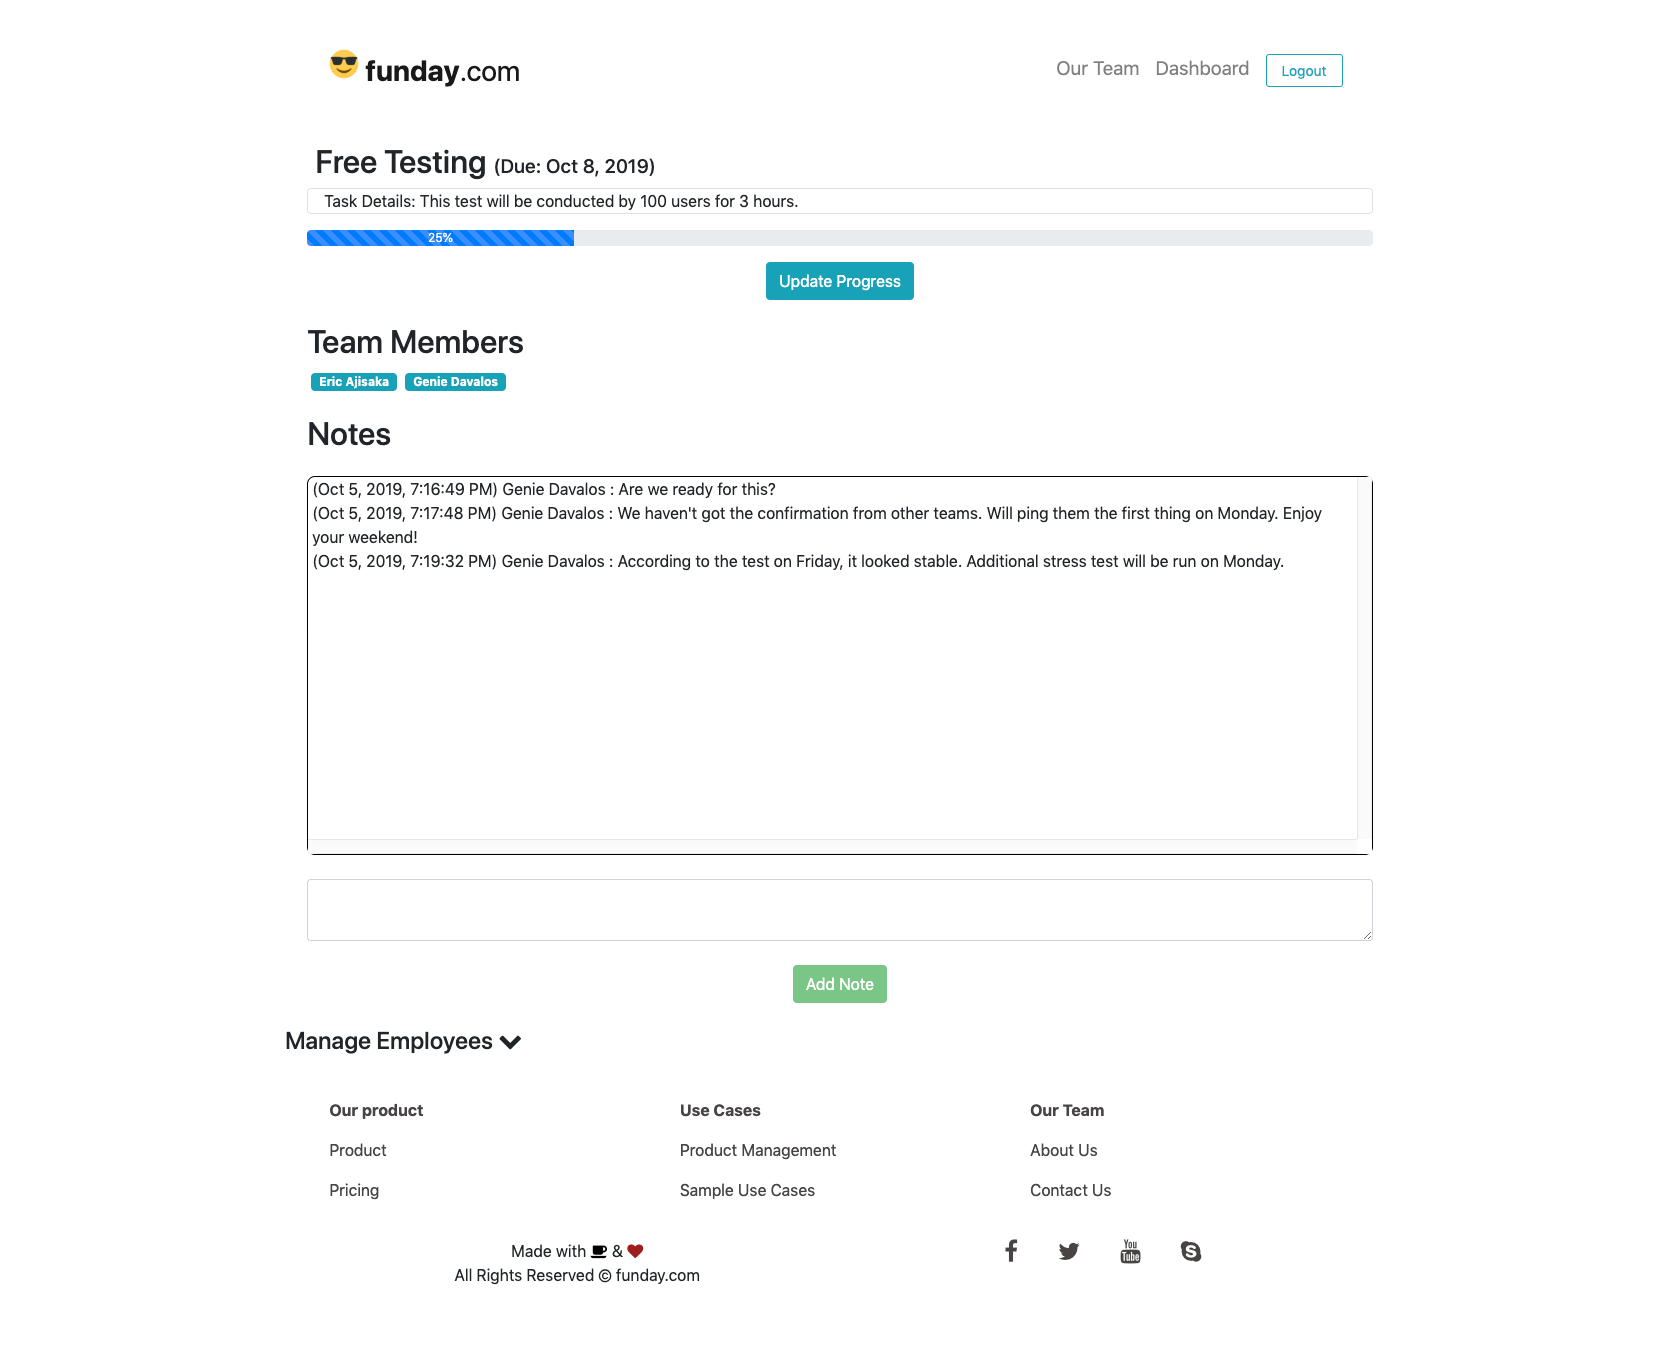
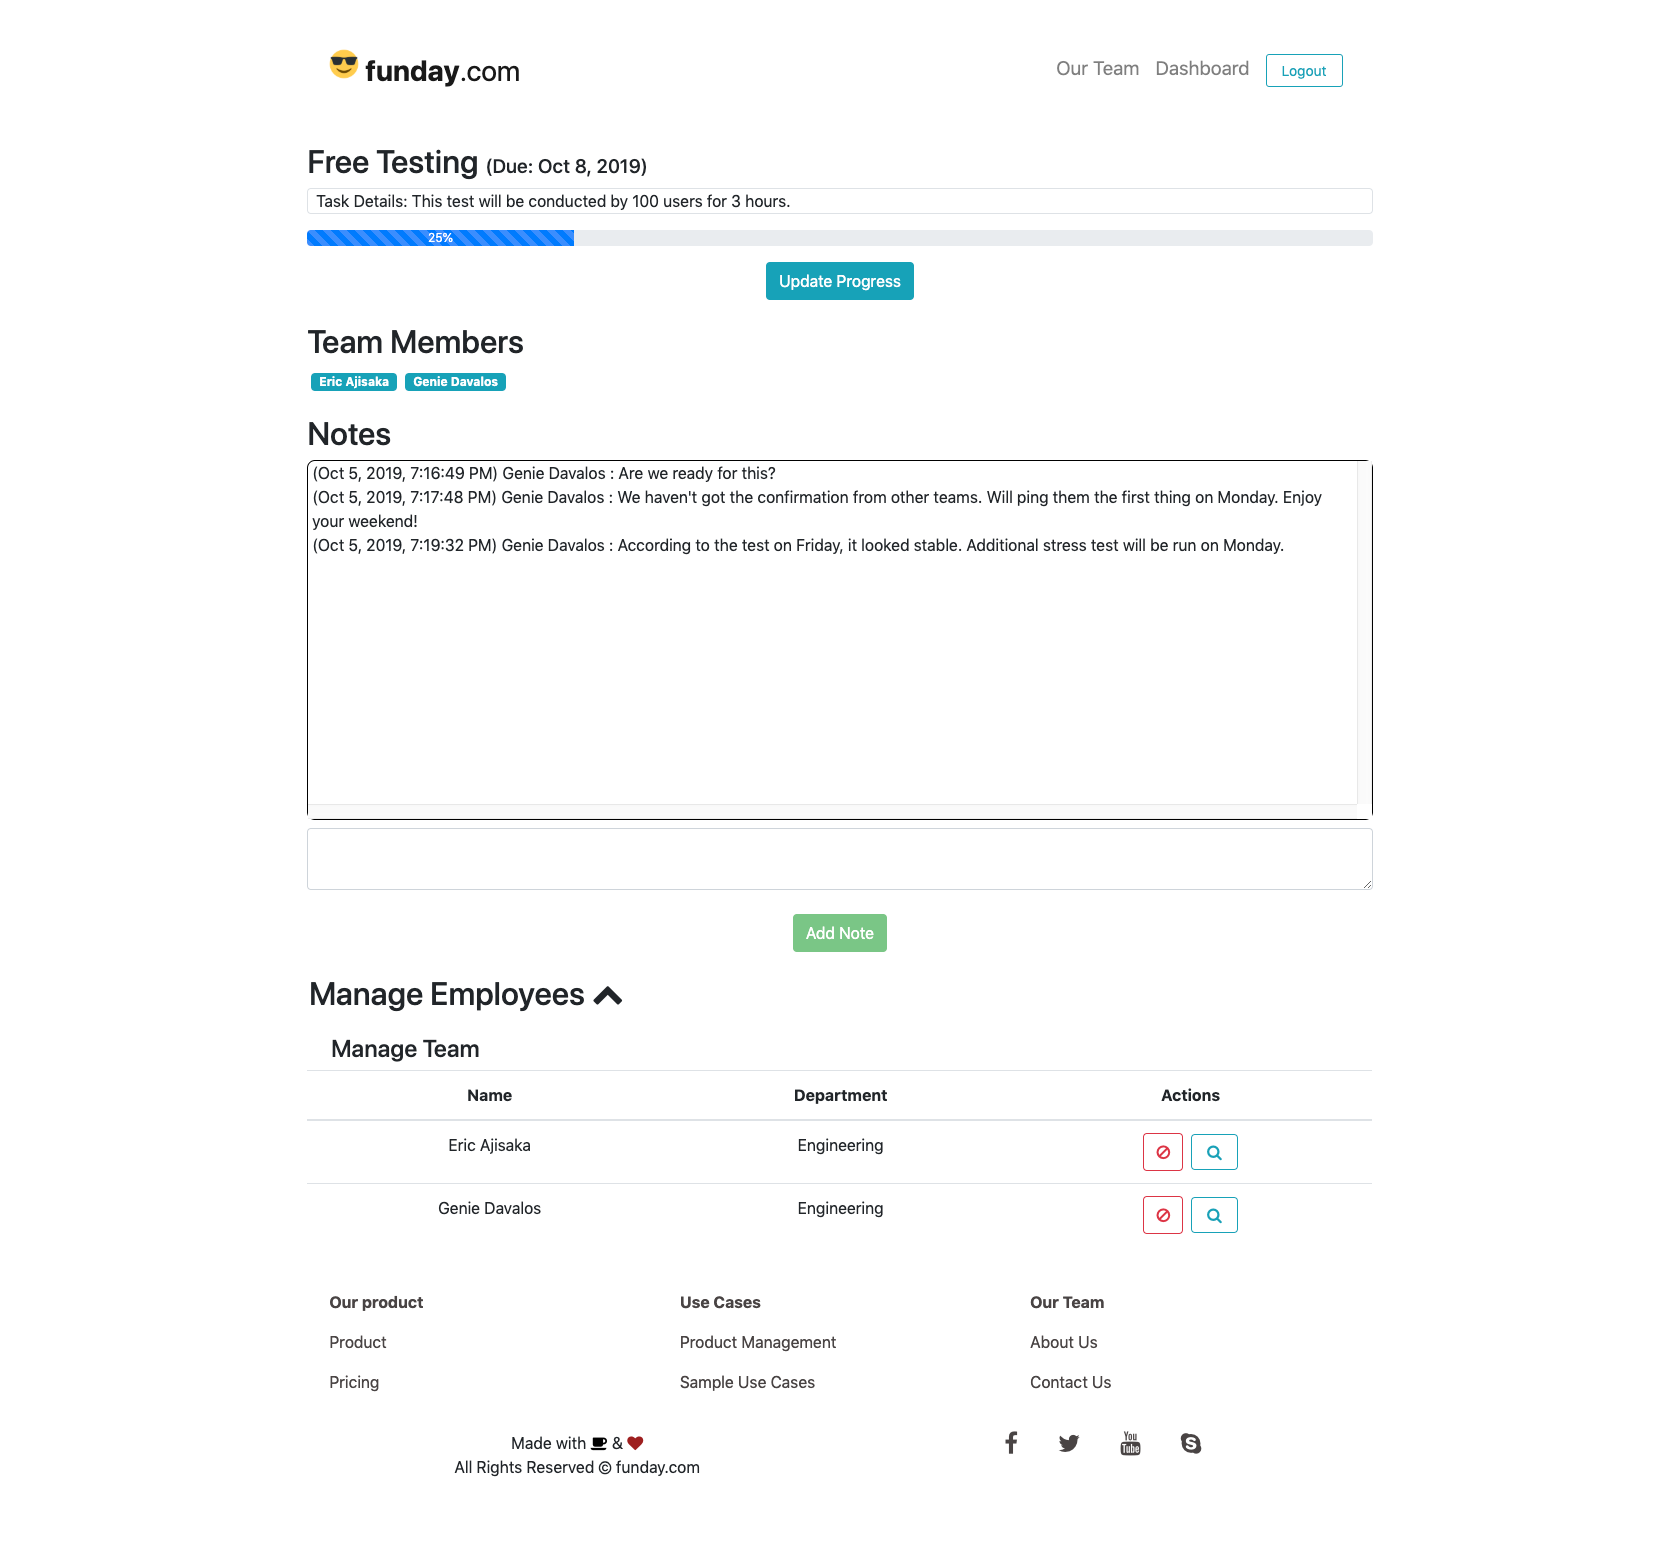
More UI changes

diff --git a/src/app/tasks/task-details/task-details.component.html b/src/app/tasks/task-details/task-details.component.html
@@ -55,7 +55,7 @@
 
     <section *ngIf="finishedLoading">
       <h2>Notes</h2>
-      <div class="notes my-4 py-0 px-1">
+      <div class="notes my-2 py-0 px-1">
         <p class="my-0" *ngFor="let note of notes">({{note.createdAt| date:"medium"}}) {{note.sender.firstName}} {{note.sender.lastName}} : {{note.content}} </p>
 
       </div>
@@ -67,9 +67,9 @@
       </div>
 
     </section>
-    <h4 *ngIf="isManager" (click)="toggleEmployees()">Manage Employees <i *ngIf="!employeesExpanded" class="fa fa-chevron-down" aria-hidden="true"></i><i *ngIf="employeesExpanded" class="fa fa-chevron-up" aria-hidden="true"></i></h4>
+    <h2 *ngIf="isManager" (click)="toggleEmployees()" class="ml-4">Manage Employees <i *ngIf="!employeesExpanded" class="fa fa-chevron-down" aria-hidden="true"></i><i *ngIf="employeesExpanded" class="fa fa-chevron-up" aria-hidden="true"></i></h2>
     <section *ngIf="employeesExpanded" id="users">
-        <h2>Manage Team</h2>
+        <h4 class="ml-4">Manage Team</h4>
         <table class="table text-center ">
           <thead>
             <tr>
